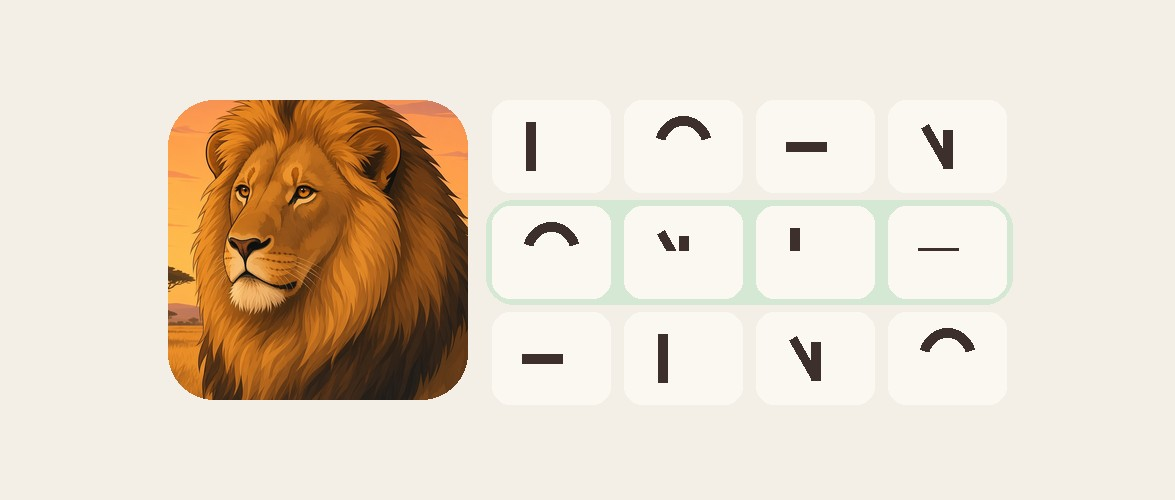
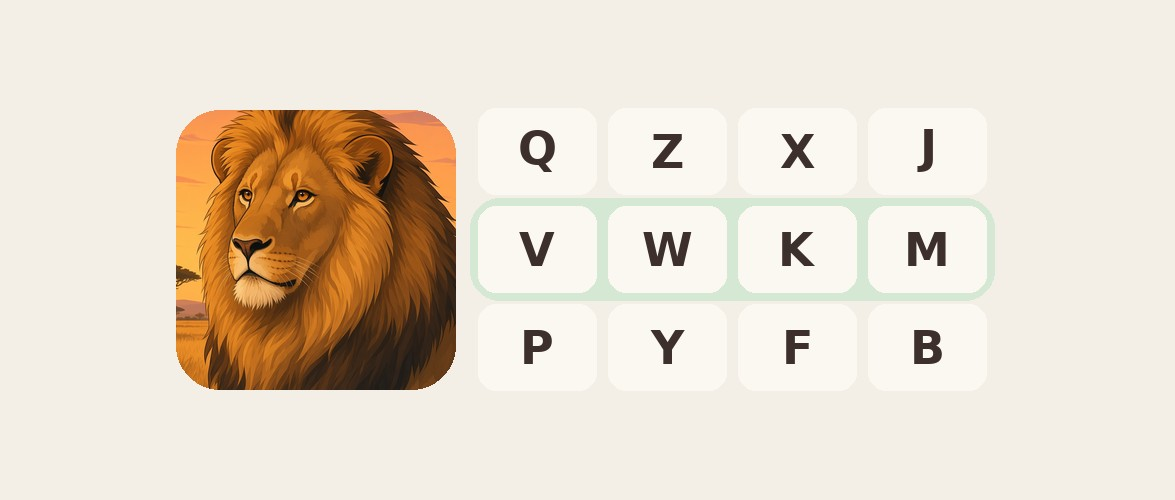
Mark Little Zookeeper Coming soon and use whole letters on Word Search.

diff --git a/src/landing/Shell.svelte b/src/landing/Shell.svelte
@@ -60,13 +60,24 @@
     </header>
     <nav class="game-list" aria-label="Games">
       {#each games as item (item.id)}
-        <a class="game-card" href={siteUrl(item.path)} data-testid="game-card" data-game={item.id}>
-          <img src={asset(item.cover)} alt="" width="800" height="500" />
-          <span class="game-copy">
-            <span class="game-title">{item.title}</span>
-            <span class="game-tag">{item.soon ? 'Coming soon' : item.tagline}</span>
-          </span>
-        </a>
+        {#if item.soon}
+          <div class="game-card" data-testid="game-card" data-game={item.id} data-soon="true">
+            <img src={asset(item.cover)} alt="" width="800" height="500" />
+            <span class="soon-badge">Coming soon</span>
+            <span class="game-copy">
+              <span class="game-title">{item.title}</span>
+              <span class="game-tag">{item.tagline}</span>
+            </span>
+          </div>
+        {:else}
+          <a class="game-card" href={siteUrl(item.path)} data-testid="game-card" data-game={item.id}>
+            <img src={asset(item.cover)} alt="" width="800" height="500" />
+            <span class="game-copy">
+              <span class="game-title">{item.title}</span>
+              <span class="game-tag">{item.tagline}</span>
+            </span>
+          </a>
+        {/if}
       {/each}
     </nav>
   </div>

diff --git a/src/landing/shelf.css b/src/landing/shelf.css
@@ -22,6 +22,7 @@
 }
 
 .game-card {
+  position: relative;
   display: flex;
   flex-direction: column;
   text-decoration: none;
@@ -30,6 +31,21 @@
   border-radius: 28px;
   overflow: hidden;
   box-shadow: var(--shadow);
+}
+
+.soon-badge {
+  position: absolute;
+  top: 14px;
+  left: 16px;
+  z-index: 1;
+  padding: 6px 12px;
+  border-radius: 999px;
+  background: var(--ink);
+  color: #fff;
+  font-size: 0.92rem;
+  font-weight: 800;
+  letter-spacing: 0.01em;
+  line-height: 1.1;
 }
 
 .game-card:focus-visible {
